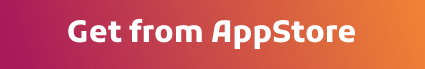
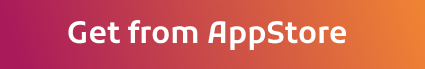
Updated readme

Changed region(s): [[0.1529, 0.2609, 0.8565, 0.7246]]

diff --git a/readme.md b/readme.md
@@ -1,4 +1,4 @@
-<img src="https://github.com/kotleni/moneytracker-ios/blob/master/Assets/btn_appstore.png?raw=true">
+<img src="https://github.com/kotleni/moneytracker-ios/blob/master/Assets/btn_appstore.png?raw=true" width=200>
 
 <!-- Banner -->
 <p align="center">
